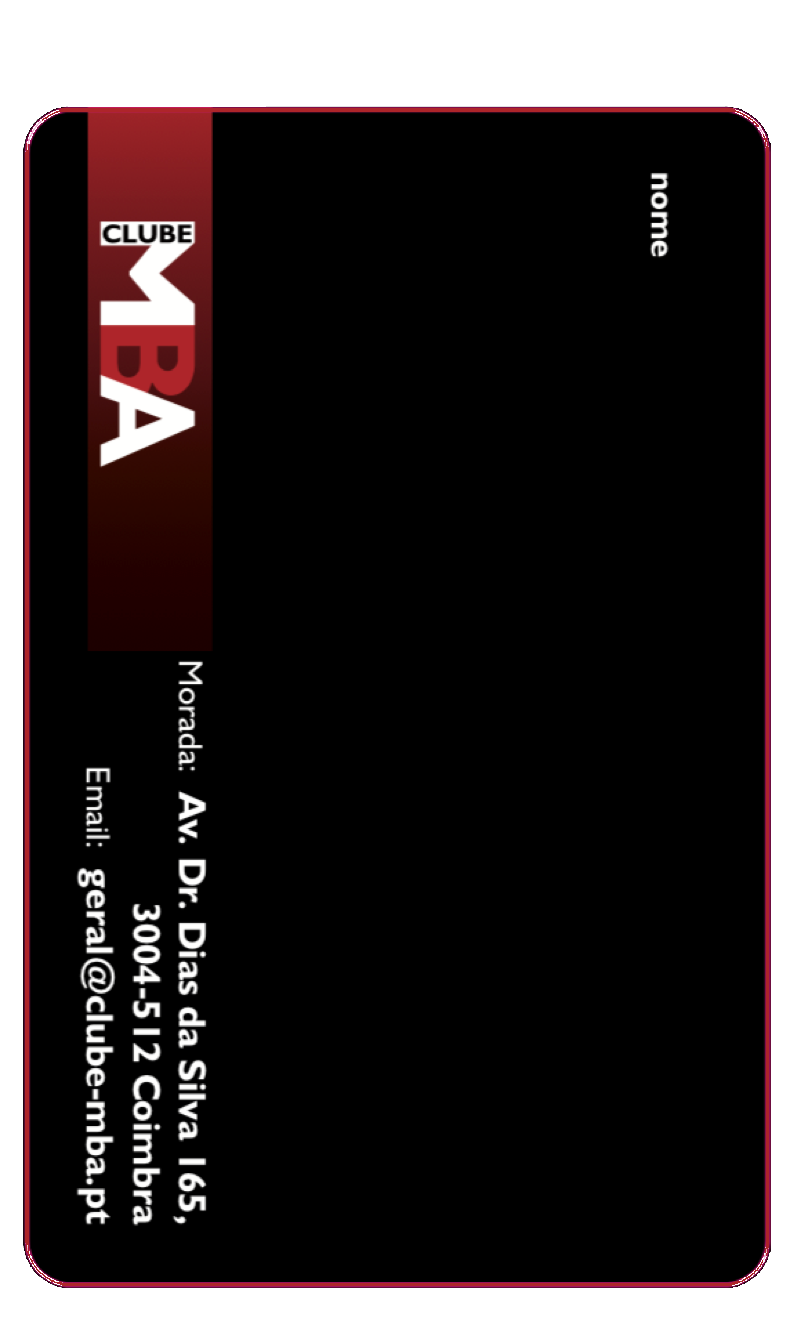
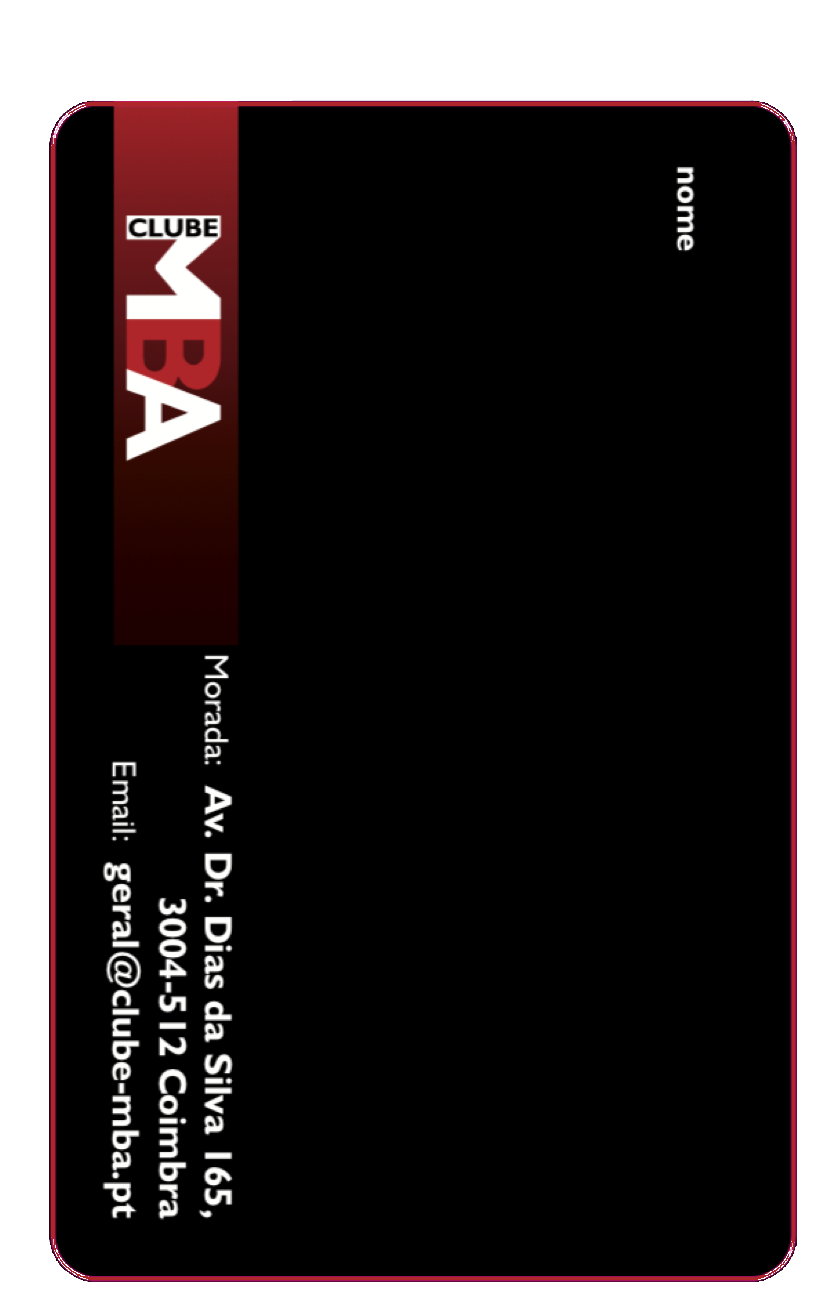
e

Changed region(s): [[0.0312, 0.0623, 0.9675, 0.997], [0.8115, 0.1246, 0.8427, 0.2181]]

diff --git a/src/assets/js/instafeed.min.js b/src/assets/js/instafeed.min.js
@@ -1,0 +1,2 @@
+// Generated by CoffeeScript 1.9.3
+(function(){var e;e=function(){function e(e,t){var n,r;this.options={target:"instafeed",get:"popular",resolution:"thumbnail",sortBy:"none",links:!0,mock:!1,useHttp:!1};if(typeof e=="object")for(n in e)r=e[n],this.options[n]=r;this.context=t!=null?t:this,this.unique=this._genKey()}return e.prototype.hasNext=function(){return typeof this.context.nextUrl=="string"&&this.context.nextUrl.length>0},e.prototype.next=function(){return this.hasNext()?this.run(this.context.nextUrl):!1},e.prototype.run=function(t){var n,r,i;if(typeof this.options.clientId!="string"&&typeof this.options.accessToken!="string")throw new Error("Missing clientId or accessToken.");if(typeof this.options.accessToken!="string"&&typeof this.options.clientId!="string")throw new Error("Missing clientId or accessToken.");return this.options.before!=null&&typeof this.options.before=="function"&&this.options.before.call(this),typeof document!="undefined"&&document!==null&&(i=document.createElement("script"),i.id="instafeed-fetcher",i.src=t||this._buildUrl(),n=document.getElementsByTagName("head"),n[0].appendChild(i),r="instafeedCache"+this.unique,window[r]=new e(this.options,this),window[r].unique=this.unique),!0},e.prototype.parse=function(e){var t,n,r,i,s,o,u,a,f,l,c,h,p,d,v,m,g,y,b,w,E,S,x,T,N,C,k,L,A,O,M,_,D;if(typeof e!="object"){if(this.options.error!=null&&typeof this.options.error=="function")return this.options.error.call(this,"Invalid JSON data"),!1;throw new Error("Invalid JSON response")}if(e.meta.code!==200){if(this.options.error!=null&&typeof this.options.error=="function")return this.options.error.call(this,e.meta.error_message),!1;throw new Error("Error from Instagram: "+e.meta.error_message)}if(e.data.length===0){if(this.options.error!=null&&typeof this.options.error=="function")return this.options.error.call(this,"No images were returned from Instagram"),!1;throw new Error("No images were returned from Instagram")}this.options.success!=null&&typeof this.options.success=="function"&&this.options.success.call(this,e),this.context.nextUrl="",e.pagination!=null&&(this.context.nextUrl=e.pagination.next_url);if(this.options.sortBy!=="none"){this.options.sortBy==="random"?M=["","random"]:M=this.options.sortBy.split("-"),O=M[0]==="least"?!0:!1;switch(M[1]){case"random":e.data.sort(function(){return.5-Math.random()});break;case"recent":e.data=this._sortBy(e.data,"created_time",O);break;case"liked":e.data=this._sortBy(e.data,"likes.count",O);break;case"commented":e.data=this._sortBy(e.data,"comments.count",O);break;default:throw new Error("Invalid option for sortBy: '"+this.options.sortBy+"'.")}}if(typeof document!="undefined"&&document!==null&&this.options.mock===!1){m=e.data,A=parseInt(this.options.limit,10),this.options.limit!=null&&m.length>A&&(m=m.slice(0,A)),u=document.createDocumentFragment(),this.options.filter!=null&&typeof this.options.filter=="function"&&(m=this._filter(m,this.options.filter));if(this.options.template!=null&&typeof this.options.template=="string"){f="",d="",w="",D=document.createElement("div");for(c=0,N=m.length;c<N;c++){h=m[c],p=h.images[this.options.resolution];if(typeof p!="object")throw o="No image found for resolution: "+this.options.resolution+".",new Error(o);E=p.width,y=p.height,b="square",E>y&&(b="landscape"),E<y&&(b="portrait"),v=p.url,l=window.location.protocol.indexOf("http")>=0,l&&!this.options.useHttp&&(v=v.replace(/https?:\/\//,"//")),d=this._makeTemplate(this.options.template,{model:h,id:h.id,link:h.link,type:h.type,image:v,width:E,height:y,orientation:b,caption:this._getObjectProperty(h,"caption.text"),likes:h.likes.count,comments:h.comments.count,location:this._getObjectProperty(h,"location.name")}),f+=d}D.innerHTML=f,i=[],r=0,n=D.childNodes.length;while(r<n)i.push(D.childNodes[r]),r+=1;for(x=0,C=i.length;x<C;x++)L=i[x],u.appendChild(L)}else for(T=0,k=m.length;T<k;T++){h=m[T],g=document.createElement("img"),p=h.images[this.options.resolution];if(typeof p!="object")throw o="No image found for resolution: "+this.options.resolution+".",new Error(o);v=p.url,l=window.location.protocol.indexOf("http")>=0,l&&!this.options.useHttp&&(v=v.replace(/https?:\/\//,"//")),g.src=v,this.options.links===!0?(t=document.createElement("a"),t.href=h.link,t.appendChild(g),u.appendChild(t)):u.appendChild(g)}_=this.options.target,typeof _=="string"&&(_=document.getElementById(_));if(_==null)throw o='No element with id="'+this.options.target+'" on page.',new Error(o);_.appendChild(u),a=document.getElementsByTagName("head")[0],a.removeChild(document.getElementById("instafeed-fetcher")),S="instafeedCache"+this.unique,window[S]=void 0;try{delete window[S]}catch(P){s=P}}return this.options.after!=null&&typeof this.options.after=="function"&&this.options.after.call(this),!0},e.prototype._buildUrl=function(){var e,t,n;e="https://api.instagram.com/v1";switch(this.options.get){case"popular":t="media/popular";break;case"tagged":if(!this.options.tagName)throw new Error("No tag name specified. Use the 'tagName' option.");t="tags/"+this.options.tagName+"/media/recent";break;case"location":if(!this.options.locationId)throw new Error("No location specified. Use the 'locationId' option.");t="locations/"+this.options.locationId+"/media/recent";break;case"user":if(!this.options.userId)throw new Error("No user specified. Use the 'userId' option.");t="users/"+this.options.userId+"/media/recent";break;default:throw new Error("Invalid option for get: '"+this.options.get+"'.")}return n=e+"/"+t,this.options.accessToken!=null?n+="?access_token="+this.options.accessToken:n+="?client_id="+this.options.clientId,this.options.limit!=null&&(n+="&count="+this.options.limit),n+="&callback=instafeedCache"+this.unique+".parse",n},e.prototype._genKey=function(){var e;return e=function(){return((1+Math.random())*65536|0).toString(16).substring(1)},""+e()+e()+e()+e()},e.prototype._makeTemplate=function(e,t){var n,r,i,s,o;r=/(?:\{{2})([\w\[\]\.]+)(?:\}{2})/,n=e;while(r.test(n))s=n.match(r)[1],o=(i=this._getObjectProperty(t,s))!=null?i:"",n=n.replace(r,function(){return""+o});return n},e.prototype._getObjectProperty=function(e,t){var n,r;t=t.replace(/\[(\w+)\]/g,".$1"),r=t.split(".");while(r.length){n=r.shift();if(!(e!=null&&n in e))return null;e=e[n]}return e},e.prototype._sortBy=function(e,t,n){var r;return r=function(e,r){var i,s;return i=this._getObjectProperty(e,t),s=this._getObjectProperty(r,t),n?i>s?1:-1:i<s?1:-1},e.sort(r.bind(this)),e},e.prototype._filter=function(e,t){var n,r,i,s,o;n=[],r=function(e){if(t(e))return n.push(e)};for(i=0,o=e.length;i<o;i++)s=e[i],r(s);return n},e}(),function(e,t){return typeof define=="function"&&define.amd?define([],t):typeof module=="object"&&module.exports?module.exports=t():e.Instafeed=t()}(this,function(){return e})}).call(this);

diff --git a/src/pages/o-meu-perfil/o-meu-perfil.ts b/src/pages/o-meu-perfil/o-meu-perfil.ts
@@ -14,6 +14,7 @@ import { Transfer, TransferObject } from '@ionic-native/transfer';
 import { FilePath } from '@ionic-native/file-path';
 import { Camera } from '@ionic-native/camera';
 
+
 declare var cordova: any;
 
 
@@ -22,15 +23,27 @@ declare var cordova: any;
   templateUrl: 'o-meu-perfil.html'
 })
 export class OMeuPerfilPage {
- 
+  setores: any = [];
   
   loading: Loading;
   utilizador: any ={ UtilizadorId: "" as string, Nome: "" as string, Telefone: "" as string, Email:"" as string,  Curso:"" as string, Ano:"", blnOnlyEmails: false, 
   blnOnlyPhone:false , Foto:"" as string
       };
-  constructor(public navCtrl: NavController,public menuCtrl: MenuController,public storage:Storage, private camera: Camera, private transfer: Transfer, private file: File, private filePath: FilePath, public actionSheetCtrl: ActionSheetController, public toastCtrl: ToastController, public platform: Platform, public loadingCtrl: LoadingController,public navParams: NavParams, public serviceProvider: ClubeAppServiceProvider) { 
+  constructor(public navCtrl: NavController,public menuCtrl: MenuController,public storage:Storage, private camera: Camera, private transfer: Transfer,
+     private file: File, private filePath: FilePath, public actionSheetCtrl: ActionSheetController, public toastCtrl: ToastController, public platform: Platform,
+      public loadingCtrl: LoadingController,public navParams: NavParams,
+       public serviceProvider: ClubeAppServiceProvider) { 
     
-
+    this.serviceProvider.getSetores()
+    .then(data => {
+      if((<string[]>data).length>0) this.setores=[];
+      for(var i=0; i<(<string[]>data).length; i++){
+        this.setores.push((<string[]>data)[i]);
+      }
+     
+      //this.users = data ;
+      
+    });
     if( navParams.get('utilizador') == null)
     {
       
@@ -52,6 +65,8 @@ export class OMeuPerfilPage {
       this.utilizador = navParams.get('utilizador');
    // console.log('perfil',this.utilizador);
   }
+
+  
 public presentActionSheet() {
   let actionSheet = this.actionSheetCtrl.create({
     title: 'Select Image Source',

diff --git a/src/pages/card/card.scss b/src/pages/card/card.scss
@@ -4,11 +4,11 @@ page-card {
 
 .nomeCard{
     color: white;
-    font-size: 40px;
+    font-size: 30px;
     position: relative;
     top: 25%;
     left: 15%;
-
+    background-attachment: fixed;
     -webkit-transform: rotate(90deg);
     -moz-transform: rotate(90deg);
     -o-transform: rotate(90deg);
@@ -20,8 +20,8 @@ page-card {
   
 .fotoUtilizador{
     display: block;
-    height: 50%;
-    max-height: 300px;
+    height: 30%;
+    max-height: 150px;
     -webkit-transform: rotate(90deg);
     -moz-transform: rotate(90deg);
     -o-transform: rotate(90deg);
@@ -29,9 +29,9 @@ page-card {
     transform: rotate(90deg);
 
     position: absolute;
-    bottom:5%;
-    right: 15%;
-
+    bottom:9%;
+    right: 22%;
+    background-attachment: fixed;
 
 }
 
@@ -40,7 +40,7 @@ page-card {
  
 
  /* Location of the image */
- background-image: url(/assets/img/cartao.png);
+ background-image: url('http://clube-mba.pt/app/cartao.png');
   
  /* Background image is centered vertically and horizontally at all times */
  background-position: center center;
@@ -54,7 +54,7 @@ page-card {
  
  /* This is what makes the background image rescale based
     on the container's size */
- background-size: cover;
+ background-size: contain;
  
  /* Set a background color that will be displayed
     while the background image is loading */

diff --git a/src/pages/o-meu-perfil/o-meu-perfil.html b/src/pages/o-meu-perfil/o-meu-perfil.html
@@ -56,6 +56,41 @@
       </ion-label>
       <ion-input type="tel" placeholder="insira o seu número de telefone" name="perfilTelefone" [(ngModel)]="utilizador.Telefone"></ion-input>
     </ion-item>
+
+    <ion-item id="registar-tipo" >
+        <ion-label>
+          Tipo de inscrição
+        </ion-label>
+        <ion-select name="tipo" [(ngModel)]="utilizador.TipoId">
+           
+          <ion-option value="1">
+            Aluno
+          </ion-option>
+          <ion-option value="2">
+            Empresa
+          </ion-option>
+          <ion-option value="3">
+            Sponsor
+          </ion-option>
+        </ion-select>
+      </ion-item>
+
+
+    <ion-item id="registar-select1"   *ngIf="utilizador.TipoId==2">
+        <ion-label>
+          Setor de atividade
+        </ion-label>
+        <ion-select name="setorUser" [(ngModel)]="utilizador.SetorId">
+     
+          <ion-option  *ngFor="let setor of setores"  [value]="setor.SetorId"  >
+           {{setor.Nome}}
+          </ion-option>
+         
+        </ion-select>
+ 
+
+      </ion-item>
+
     <ion-item id="oMeuPerfil-input12">
         <ion-label stacked>
           Número de Aluno

diff --git a/src/pages/detalhe-perfil/detalhe-perfil.ts b/src/pages/detalhe-perfil/detalhe-perfil.ts
@@ -1,7 +1,7 @@
 import { Component } from '@angular/core';
 import { NavController ,NavParams} from 'ionic-angular';
 import { ClubeAppServiceProvider } from '../../providers/clube-app-service/clube-app-service';
-
+import { PhotoViewer } from '@ionic-native/photo-viewer';
 @Component({
   selector: 'page-detalhe-perfil',
   templateUrl: 'detalhe-perfil.html'
@@ -12,7 +12,8 @@ export class DetalhePerfilPage {
   blnOnlyPhone:false 
       };
 
-  constructor(public navCtrl: NavController,public navParams: NavParams, public serviceProvider: ClubeAppServiceProvider) {
+  constructor(public navCtrl: NavController,public navParams: NavParams, 
+    public serviceProvider: ClubeAppServiceProvider,private photoViewer: PhotoViewer) {
     this.utilizador = navParams.get('utilizador');
    console.log('user',this.utilizador);
 
@@ -26,6 +27,12 @@ export class DetalhePerfilPage {
   
   } });
   */
+  }
+
+  showPhoto(){
+    console.log("Abrir foto "+this.utilizador.Foto);
+    this.photoViewer.show(this.utilizador.Foto);
+
   }
 
   rand(){

diff --git a/src/pages/networking/networking.html b/src/pages/networking/networking.html
@@ -13,20 +13,21 @@
     <ion-item-sliding>
     <ion-item color="none" on-click="goToDetalhePerfil(user)" id="networking-list-item16" *ngFor="let user of users">
         
-        <ion-avatar *ngIf = "user.Foto; else elseBlock" item-left>
+        <ion-thumbnail  *ngIf = "user.Foto; else elseBlock" item-left>
           <img src="{{user.Foto}}" />
-        </ion-avatar>
+        </ion-thumbnail >
   
         <ng-template #elseBlock>
-          <ion-avatar   item-left>
+          <ion-thumbnail   item-left>
             <img src="../../assets/img/person.png" />
-          </ion-avatar>
+          </ion-thumbnail >
         </ng-template>
 
         <h2>
           {{user.Nome}}
         </h2>
-        <p><small>{{user.NomeCurso}} - {{user.AnoEntrada}}</small></p>
+        <p><small>{{user.Tipo}} <span ng-if="user.Setor">{{user.Setor}}</span></small></p>
+        <p><small>{{user.NomeCurso}} {{user.AnoEntrada}}</small></p>
       </ion-item>
       <ion-item-options side="left">
         <button ion-button color="positive"></button>

diff --git a/src/pages/registar/registar.ts b/src/pages/registar/registar.ts
@@ -14,12 +14,25 @@ import { LoginPage } from '../login/login';
 })
 export class RegistarPage {
   utilizador: any ={ UtilizadorId: "" as string, Nome: "" as string, Telefone: "" as string, Email:"" as string,  Curso:"" as string, Ano:"", blnOnlyEmails: false, 
-  blnOnlyPhone:false , Foto:"" as string, Tipo: -1
+  blnOnlyPhone:false , Foto:"" as string, TipoId: -1, SetorId: -1
       };
+
+      setores: any = [];
 
   constructor(public navCtrl: NavController,public storage:Storage
     , public serviceProvider: ClubeAppServiceProvider,public menuCtrl: MenuController, private toastCtrl: ToastController) {
     
+      this.serviceProvider.getSetores()
+      .then(data => {
+        if((<string[]>data).length>0) this.setores=[];
+        for(var i=0; i<(<string[]>data).length; i++){
+          this.setores.push((<string[]>data)[i]);
+        }
+       
+        //this.users = data ;
+        
+      });
+
   }
 
   public presentToast(msg) {

diff --git a/src/pages/detalhe-perfil/detalhe-perfil.html b/src/pages/detalhe-perfil/detalhe-perfil.html
@@ -9,13 +9,13 @@
   </ion-navbar>
 </ion-header>
 <ion-content padding id="page8">
-  <ion-card id="detalhePerfil-card24">
-    <ion-list>
+  <!-- <ion-card id="detalhePerfil-card24"> -->
+    <!-- <ion-list> -->
       <ion-item color="none" id="detalhePerfil-list-item20">
        
 
         <ion-thumbnail *ngIf = "utilizador.Foto; else elseBlock" item-start>
-       <img src="{{utilizador.Foto}}"   /> 
+       <img src="{{utilizador.Foto}}"   on-click="showPhoto();" /> 
        
 
         </ion-thumbnail>
@@ -48,8 +48,8 @@
         <ion-icon name="phone-portrait" item-left></ion-icon>
         {{utilizador.Telefone}}
       </ion-item>
-    </ion-list>
-  </ion-card>
+    <!-- </ion-list>
+  </ion-card> -->
   <form id="detalhePerfil-form8">
     <div class="spacer" style="width:300px;height:0px;" id="detalhePerfil-spacer3"></div>
   </form>

diff --git a/src/pages/gram/gram.ts b/src/pages/gram/gram.ts
@@ -19,24 +19,8 @@ export class GramPage {
 conteudo="Loading...";
   constructor(public navCtrl: NavController,public http: Http, public sanitizer: DomSanitizer, public serviceProvider: ClubeAppServiceProvider,public navParams: NavParams)
    {
-   this.url=sanitizer.bypassSecurityTrustResourceUrl("https://www.instagram.com/explore/tags/coimbra/");
-
-
-    let proxyurl = "https://cors-anywhere.herokuapp.com/";
-this.url = this.http
-  .get( 'https://www.instagram.com/explore/tags/coimbra/')
-  .map(response => response.text())
-  .subscribe(
-    function (data) {
-      //this.conteudo= (data);
-      alert(this.conteudo);
-      document.getElementById("teste").innerHTML=(data);
-    }
-);
-
-  
+ 
   }
-
  
  
 }

diff --git a/src/app/app.html b/src/app/app.html
@@ -25,10 +25,10 @@
         <ion-icon name="contacts" item-left></ion-icon>
         Networking
       </ion-item>
-      <ion-item color="none" menuClose="" on-click="goToGram()" id="menu-list-item18" style="background-color:#c20000;color:#fff">
+    <!--  <ion-item color="none" menuClose="" on-click="goToGram()" id="menu-list-item18" style="background-color:#c20000;color:#fff">
           <ion-icon name="logo-instagram" item-left></ion-icon>
           MBAgram
-        </ion-item>
+        </ion-item>-->
         <ion-item color="none" menuClose="" on-click="goToCard()" id="menu-list-item19" style="background-color:#c20000;color:#fff">
             <ion-icon name="card" item-left></ion-icon>
             MBA Card

diff --git a/src/pages/registar/registar.html b/src/pages/registar/registar.html
@@ -67,6 +67,22 @@
       </ion-option>
     </ion-select>
   </ion-item>
+ 
+  
+    <ion-item id="registar-select1"   *ngIf="utilizador.TipoId==2">
+        <ion-label>
+          Setor de atividade
+        </ion-label>
+        <ion-select name="setorUser" [(ngModel)]="utilizador.SetorId">
+     
+          <ion-option  *ngFor="let setor of setores"  [value]="setor.SetorId"  >
+           {{setor.Nome}}
+          </ion-option>
+         
+        </ion-select>
+ 
+
+      </ion-item>
 
   <ion-item id="oMeuPerfil-input12" *ngIf="utilizador.TipoId==1">
       <ion-label stacked>

diff --git a/src/app/app.module.ts b/src/app/app.module.ts
@@ -18,6 +18,7 @@ import { Transfer } from '@ionic-native/transfer';
 import { FilePath } from '@ionic-native/file-path';
 import { Camera } from '@ionic-native/camera';
 import { QRScanner } from '@ionic-native/qr-scanner';
+import { PhotoViewer } from '@ionic-native/photo-viewer';
 
 
 //databvase: clubemba_app
@@ -82,7 +83,8 @@ import { QrReaderPage } from '../pages/qrreader/qrreader';
     Transfer,
     Camera,
     FilePath,
-    QRScanner
+    QRScanner,
+    PhotoViewer
   ]
 })
 export class AppModule {}
